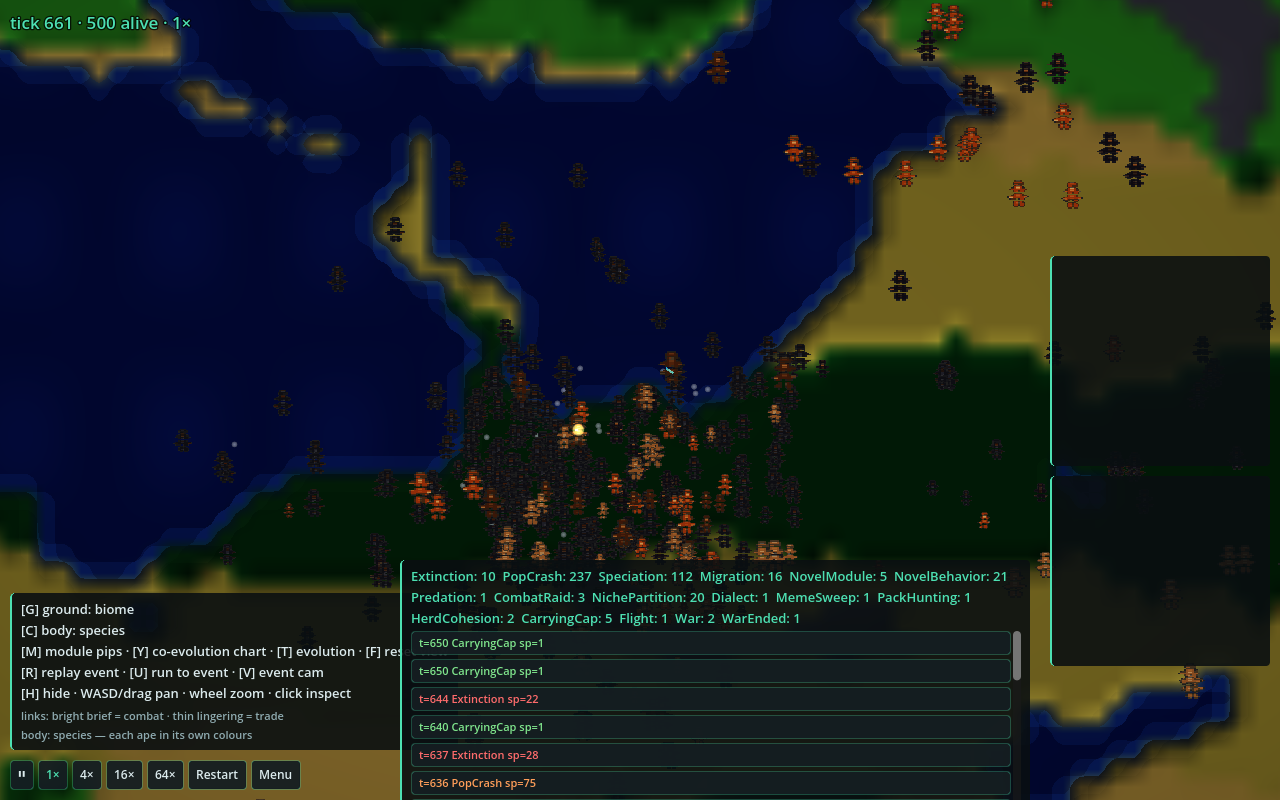
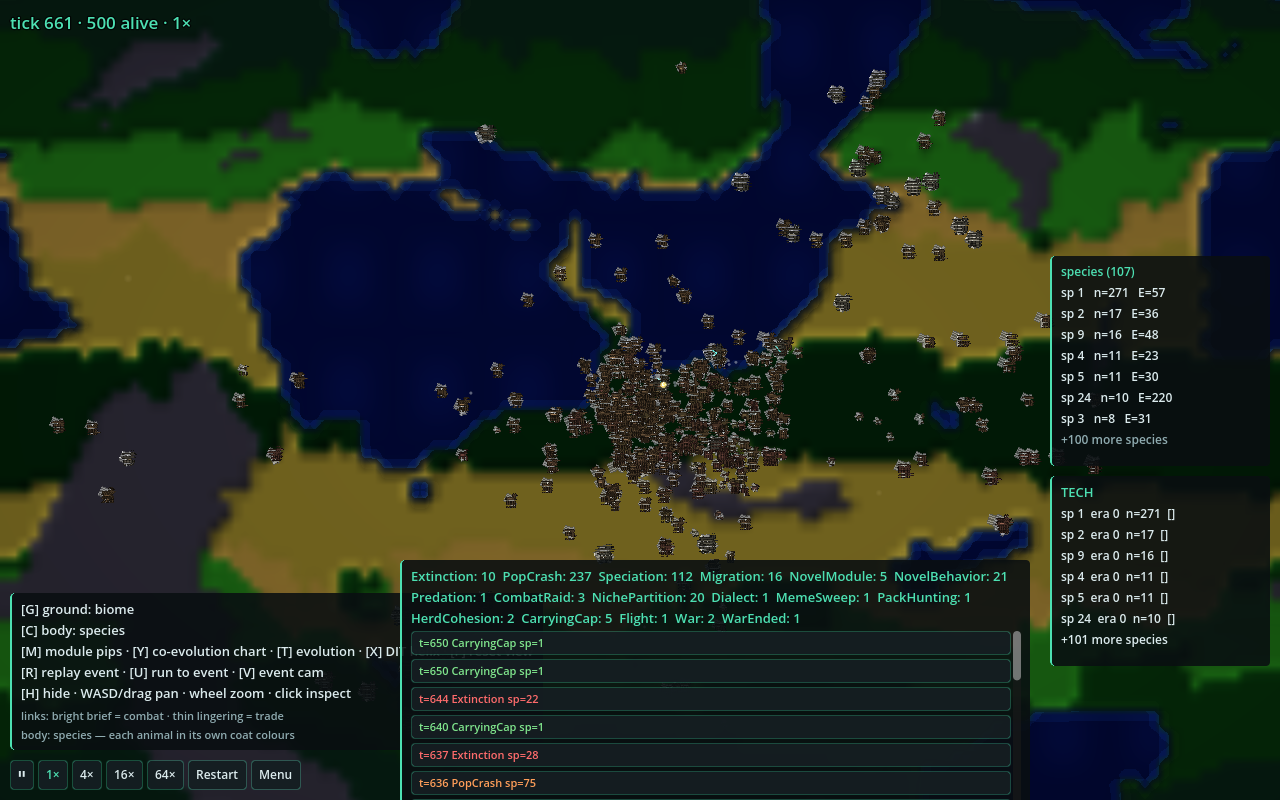
docs(gallery): refresh ecological/combat screenshots for the mammal roster
Recapture the 23 gallery shots whose agents now render as quadruped mammals
(arena, weapons-arms-race, predator-prey, trophic-cascade, divergent,
grand-theater arena, gene-culture-hunt, E2 replay/event-camera) from their
documented seed/tick/camera recipes. Inspector header now names the archetype
(e.g. "Deer"); legend reads "each animal in its own coat colours". Culture/DIT
shots stay Primate (unchanged); territories-t400-pher keeps its prior still
(pheromone-overlay shot, agents incidental). README notes the refresh.

diff --git a/gallery/README.md b/gallery/README.md
@@ -17,6 +17,15 @@ Five heavy scenarios that explode to ~10k agents / hundreds of species —
 synchronously in the harness (`step_n` over a 6,000-species speciation pass runs
 for many minutes), so they keep their prior stills; the other 37 are fresh.
 
+**2026-08-07 mammal-roster refresh:** the ecological/combat shots (arena,
+weapons-arms-race, predator-prey, trophic-cascade, divergent, grand-theater
+arena, gene-culture-hunt, and the E2 replay/event-camera) were recaptured after
+the viewer's quadruped mammal roster landed — grazers/stalkers/herds now render
+as Deer/Wolf/Hare/etc. by diet+size+role instead of hominins, and the body-mode
+legend reads "each animal in its own coat colours". Culture/DIT scenarios stay
+Primate (apes), so their stills are unchanged; `territories-t400-pher` keeps its
+prior still (a pheromone-overlay shot where the 60 agents are incidental).
+
 ## grand theater (all subsystems at once)
 
 Every opt-in flag on in one world (`grand-theater`, seed 424242): seasonal +
